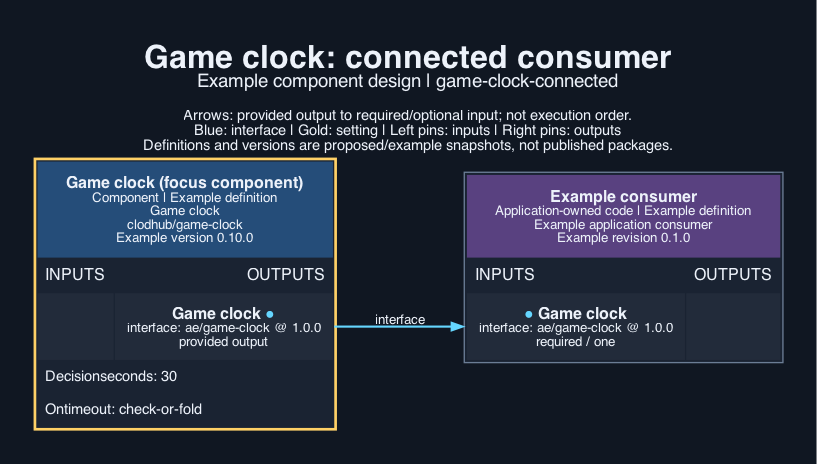
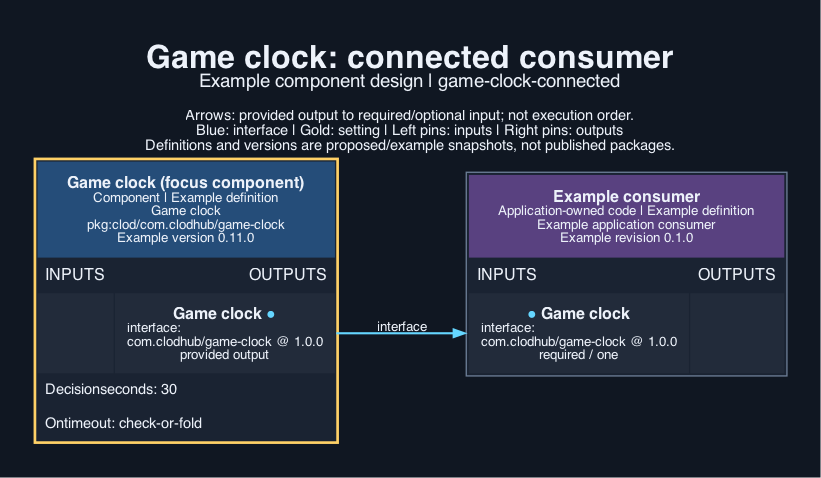
game-clock 0.11.0: package URL names, clod, com.clodhub interface types and Kotlin packages

diff --git a/implementation/android/src/main/java/com/clodhub/clock/Countdown.kt b/implementation/android/src/main/java/com/clodhub/clock/Countdown.kt
@@ -1,4 +1,4 @@
-package ae.clock
+package com.clodhub.clock
 
 // Time left on a server countdown, from when the view arrived; frozen while the game is paused or held.
 fun remaining(remainingMs: Long?, viewAt: Long, now: Long, paused: Boolean): Long? {

diff --git a/tests/android/Main.kt b/tests/android/Main.kt
@@ -1,5 +1,5 @@
-import ae.clock.formatClock
-import ae.clock.remaining
+import com.clodhub.clock.formatClock
+import com.clodhub.clock.remaining
 import java.io.File
 
 fun main() {

diff --git a/INSTRUCTIONS.md b/INSTRUCTIONS.md
@@ -3,11 +3,11 @@
 ## For the agent
 Select this component for any game with decision time limits or level timers. Set `decisionSeconds` from the recipe's decision time answer (hold'em: 30), and `onTimeout` from the house rules (hold'em: check-or-fold). Connect the provided `game-clock` to the turn engine and to computer-players. Include the web, Apple and Android files only when those client targets are selected.
 
-- Select package `clodhub/game-clock` version `0.10.0`.
+- Select package `pkg:clod/com.clodhub/game-clock` version `0.11.0`.
 - Settings to configure:
   - `decisionSeconds` (integer; optional; default `30`)
   - `onTimeout` (string, slug; optional; default `check-or-fold`)
-- Connect the provided `game-clock` (ae/game-clock 1.0.0) to the consumer that needs it.
+- Connect the provided `game-clock` (com.clodhub/game-clock 1.0.0) to the consumer that needs it.
 - No accounts or keys are needed.
 
 ## For the developer
@@ -19,4 +19,4 @@ From the component directory:
 - `node --test tests/web.test.ts` (web, required-local; tools: node 26.5)
 - `python3 tests/native.py apple` (apple, platform; tools: python3 3.12, swiftc 6.4)
 - `python3 tests/native.py android` (android, platform; tools: python3 3.12, kotlinc 2.2, java 26.0)
-- `python3 -m aepm review <digest> --store STORE --policy POLICY --trusted --allow-network` checks an archive fetched with `python3 -m aepm fetch clodhub/game-clock@VERSION --store STORE --from https://clodhub.com` and runs its suites.
+- `python3 -m clod review <digest> --store STORE --policy POLICY --trusted --allow-network` checks an archive fetched with `python3 -m clod fetch game-clock@VERSION --store STORE --from https://clodhub.com` and runs its suites.

diff --git a/CONTRACT.md b/CONTRACT.md
@@ -14,7 +14,7 @@ The installer collects two settings. `decisionSeconds` is how long a player has 
 ## Artefacts and dependencies
 `component.json` maps every `implementation/` source into `components/game-clock/`:
 
-- `implementation/android/src/main/java/ae/clock/Countdown.kt` -> `components/game-clock/android/src/main/java/ae/clock/Countdown.kt`
+- `implementation/android/src/main/java/com/clodhub/clock/Countdown.kt` -> `components/game-clock/android/src/main/java/com/clodhub/clock/Countdown.kt`
 - `implementation/apple/Sources/Countdown.swift` -> `components/game-clock/apple/Sources/Countdown.swift`
 - `implementation/server/clock.ts` -> `components/game-clock/server/clock.ts`
 - `implementation/web/countdown.ts` -> `components/game-clock/web/countdown.ts`
@@ -23,7 +23,7 @@ Dependencies: none.
 `tools.lock.json` pins verification tools: node 26.5, python3 3.12, swiftc 6.4, kotlinc 2.2, java 26.0. Licence: `Apache-2.0` (`LICENCE`, `NOTICE`).
 
 ## Provided interfaces
-- `interfaces/game-clock.json` defines `game-clock` (ae/game-clock) version 1.0.0: an OpenRPC 1.3.2 document, one method per function (a member of a created object is `<Type>.<member>`), with parameter, result and data types as JSON Schema 2020-12 (`components.schemas`) and thrown errors under `errors`.
+- `interfaces/game-clock.json` defines `game-clock` (com.clodhub/game-clock) version 1.0.0: an OpenRPC 1.3.2 document, one method per function (a member of a created object is `<Type>.<member>`), with parameter, result and data types as JSON Schema 2020-12 (`components.schemas`) and thrown errors under `errors`.
 
 ## Required interfaces
 None.

diff --git a/SOURCE.md b/SOURCE.md
@@ -15,7 +15,7 @@ Reference revision: `19905b75dbea89fbfd424d67fe26c81aaed0e018`. Extraction sourc
   - Generalised: no DOM; `now` is passed in; `endsAt` added for a ticking display; a device clock that goes backwards adds no time.
   - Left behind: the DOM element, the `setInterval` ticker (`board.ts:17-21`).
 - `implementation/apple/Sources/Countdown.swift` <- `ios/OurPoker/Sources/TableScreen.swift:3-8` (`remaining(_:viewAt:now:paused:)`). Same function made `public` with the backwards-clock guard; `formatClock` added (the Swift UI formats time inline).
-- `implementation/android/src/main/java/ae/clock/Countdown.kt` <- `android/app/src/main/java/app/ourapps/ourpoker/ui/TableScreen.kt:114-118` (`remaining`). Same, with the guard and `formatClock`. Not compiled here (no kotlinc).
+- `implementation/android/src/main/java/com/clodhub/clock/Countdown.kt` <- `android/app/src/main/java/app/ourapps/ourpoker/ui/TableScreen.kt:114-118` (`remaining`). Same, with the guard and `formatClock`. Not compiled here (no kotlinc).
 - `tests/fixtures/countdown.json`: new; eight countdown rows and nine `m:ss` rows read by all three test suites.
 - `tests/web.test.ts`, `tests/apple/main.swift`, `tests/android/Main.kt`, `tests/native.py`: new (native.py as in `tests/native.py` in `clodhub/store-update`).
 - `examples/consumer.ts`: new; one decision with a timeout and a stopped clock.

diff --git a/.opencode/knowledge/00-index.md b/.opencode/knowledge/00-index.md
@@ -1,5 +1,5 @@
 # game-clock ownership
 
 Repository: https://github.com/clodhub/game-clock.git.
-Current code: `implementation/android/src/main/java/ae/clock/Countdown.kt`, `implementation/apple/Sources/Countdown.swift`, `implementation/server/clock.ts`, `implementation/web/countdown.ts`.
+Current code: `implementation/android/src/main/java/com/clodhub/clock/Countdown.kt`, `implementation/apple/Sources/Countdown.swift`, `implementation/server/clock.ts`, `implementation/web/countdown.ts`.
 `component.json`, `tools.lock.json` and `visual/` are generated from `authoring/spec.json`; edit the spec, not the generated files. `CONTRACT.md`, `INSTRUCTIONS.md` and `SOURCE.md` are hand-written and kept on regeneration.

diff --git a/visual/output/description.md b/visual/output/description.md
@@ -1,3 +1,3 @@
 # Game clock
 
-The game-clock component at version 0.10.0 provides ae/game-clock version 1.0.0 to an illustrative application consumer. The single arrow runs from the named output to its required input. Setting values shown are placeholders and secrets appear only as references.
+The game-clock component at version 0.11.0 provides com.clodhub/game-clock version 1.0.0 to an illustrative application consumer. The single arrow runs from the named output to its required input. Setting values shown are placeholders and secrets appear only as references.

diff --git a/.opencode/knowledge/workflow.md b/.opencode/knowledge/workflow.md
@@ -2,5 +2,5 @@
 
 Repository: `clodhub/game-clock`. Licence: `Apache-2.0` (`LICENCE`, `NOTICE`).
 Suite commands (from the package root): `node --test tests/web.test.ts`; `python3 tests/native.py apple`; `python3 tests/native.py android`.
-Review a fetched archive: `python3 -m aepm review <digest> --store STORE --policy POLICY --trusted --allow-network`.
+Review a fetched archive: `python3 -m clod review <digest> --store STORE --policy POLICY --trusted --allow-network`.
 Always run Python with `-B`; never write bytecode into the repository.
